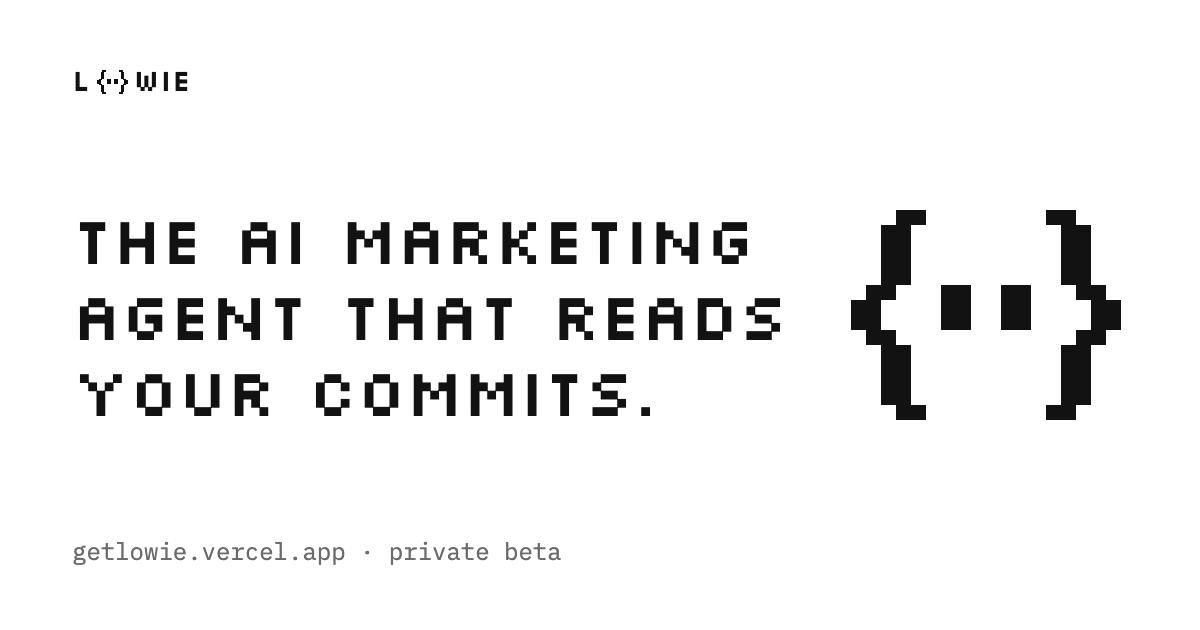
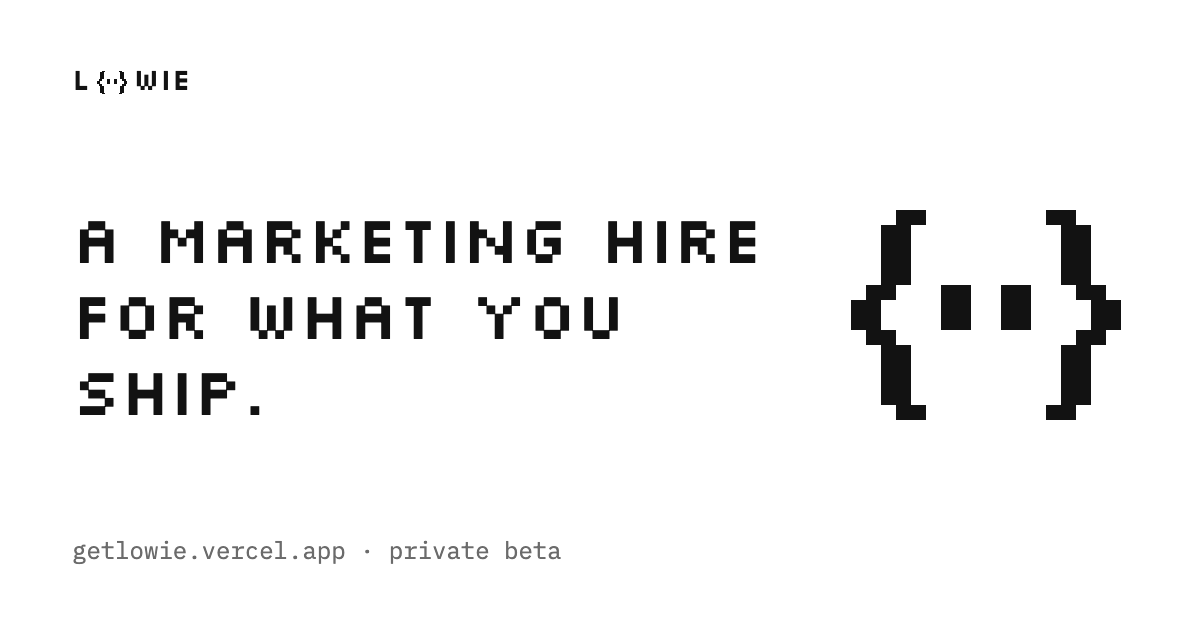
Update share card and meta to the new headline

diff --git a/index.html b/index.html
@@ -3,16 +3,16 @@
 <head>
 <meta charset="utf-8">
 <meta name="viewport" content="width=device-width, initial-scale=1">
-<title>Lowie: the AI marketing agent that reads your commits</title>
-<meta name="description" content="Every day: one post from what you shipped. Every Friday: which post actually brought signups, counted from your own database. All from your terminal.">
-<meta property="og:title" content="Lowie: the AI marketing agent that reads your commits">
-<meta property="og:description" content="Every day: one post from what you shipped. Every Friday: which post actually brought signups.">
+<title>Lowie: a marketing hire for what you ship</title>
+<meta name="description" content="An AI agent in your terminal. It posts on your account, tests what works, and tells you if your idea pulls.">
+<meta property="og:title" content="Lowie: a marketing hire for what you ship">
+<meta property="og:description" content="An AI agent in your terminal. It posts on your account, tests what works, and tells you if your idea pulls.">
 <meta property="og:type" content="website">
 <meta property="og:url" content="https://getlowie.vercel.app/">
 <meta property="og:image" content="https://getlowie.vercel.app/og.png">
 <meta property="og:image:width" content="1200">
 <meta property="og:image:height" content="630">
-<meta property="og:image:alt" content="Lowie: the AI marketing agent that reads your commits.">
+<meta property="og:image:alt" content="Lowie: a marketing hire for what you ship.">
 <meta name="twitter:card" content="summary_large_image">
 <meta name="twitter:site" content="@getlowie">
 <meta name="twitter:image" content="https://getlowie.vercel.app/og.png">

diff --git a/_og.html b/_og.html
@@ -8,7 +8,7 @@ h1{font-family:Silkscreen;font-weight:400;font-size:66px;line-height:76px;max-wi
 #big{position:absolute;right:64px;top:50%;transform:translateY(-50%)}
 </style></head><body>
 <div class="top">L<svg id="s" width="34" height="27" viewBox="0 0 20 16" shape-rendering="crispEdges"></svg>WIE</div>
-<h1>The AI marketing agent that reads your commits.</h1>
+<h1>A marketing hire for what you ship.</h1>
 <div class="bot">getlowie.vercel.app · private beta</div>
 <svg id="big" width="300" height="240" viewBox="0 0 20 16" shape-rendering="crispEdges"></svg>
 <script>
